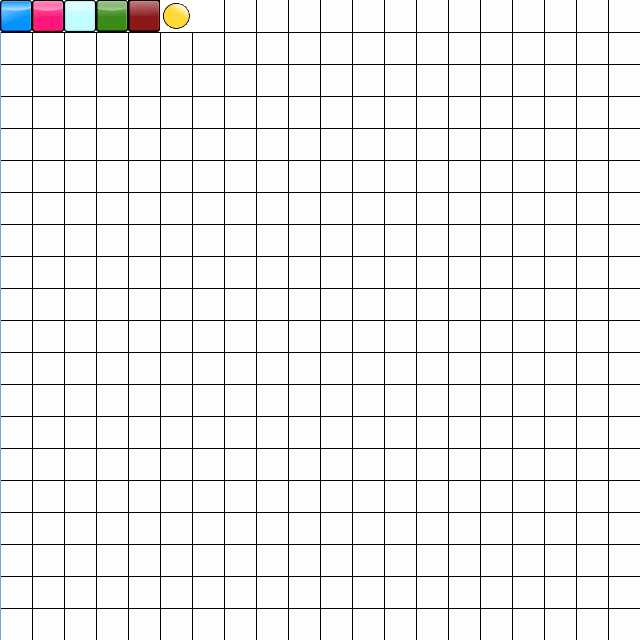
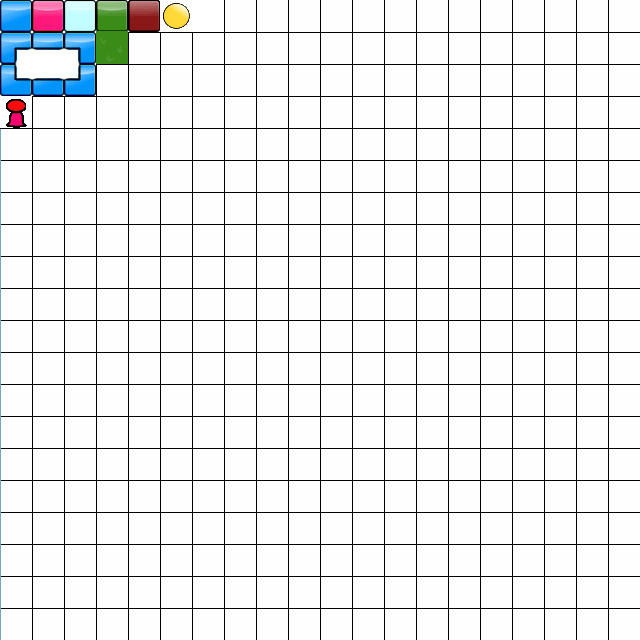
individual layer x and y

Changed region(s): [[0.0, 0.0312, 0.2188, 0.2188]]

diff --git a/_site/assets/src/TileMapViewer.js b/_site/assets/src/TileMapViewer.js
@@ -47,14 +47,17 @@ function TileMapViewer(config) {
       tileId;
     layerData = layer.data;
     layerCols = layer.width;
-    startCol = Math.floor(viewX / mapTileWidth);
-    drawMaxX = viewWidth + mapTileWidth;
-    drawMaxY = viewHeight + mapTileHeight;
+    startCol = Math.floor(layer.x / mapTileWidth);
+    //drawMaxX = viewWidth + mapTileWidth;
+    //drawMaxY = viewHeight + mapTileHeight;
+    drawMaxX = (layer.width + 1) * mapTileWidth;
+    drawMaxY = (layer.height + 1) * mapTileHeight;
     ctx.clearRect(0, 0, viewWidth, viewHeight);
     ctx.globalAlpha = layer.opacity;
-    ctx.translate(-viewX % mapTileWidth, -viewY % mapTileHeight);
+    ctx.translate(-layer.x % mapTileWidth, -layer.y % mapTileHeight);
     // display loop
-    tileRowStart = Math.floor(viewY / mapTileHeight) * layerCols;  // start of row
+    tileRowStart = layerCols * Math.floor(layer.y / mapTileHeight);  // start row
+    // console.log(layer.name, layer.x, layer.y, startCol, tileRowStart);
     drawY = 0;
     while (drawY <= drawMaxY) {
       col = startCol;
@@ -82,10 +85,22 @@ function TileMapViewer(config) {
     }
     ctx.setTransform(1, 0, 0, 1, 0, 0);
   }
+  this.getX = function () {
+    return viewX;
+  }
+  this.getY = function () {
+    return viewY;
+  }
   this.setXY = function (newX, newY) {
     // top left of view
-    viewX = Math.max(0, Math.min(newX, mapCols * mapTileWidth - viewWidth));
-    viewY = Math.max(0, Math.min(newY, mapRows * mapTileHeight - viewHeight));
+    let newLayerX = Math.max(0, Math.min(newX, mapCols * mapTileWidth - viewWidth));
+    let newLayerY = Math.max(0, Math.min(newY, mapRows * mapTileHeight - viewHeight));
+    viewX = newLayerX;
+    viewY = newLayerY;
+    layers[0].x = newLayerX;
+    layers[0].y = newLayerY;
+    layers[1].x = newLayerX;
+    layers[1].y = newLayerY;
   };
   this.changeXY = function (xChange, yChange) {
     this.setXY(viewX + xChange, viewY + yChange);

diff --git a/assets/src/TileMapViewer.js b/assets/src/TileMapViewer.js
@@ -47,14 +47,17 @@ function TileMapViewer(config) {
       tileId;
     layerData = layer.data;
     layerCols = layer.width;
-    startCol = Math.floor(viewX / mapTileWidth);
-    drawMaxX = viewWidth + mapTileWidth;
-    drawMaxY = viewHeight + mapTileHeight;
+    startCol = Math.floor(layer.x / mapTileWidth);
+    //drawMaxX = viewWidth + mapTileWidth;
+    //drawMaxY = viewHeight + mapTileHeight;
+    drawMaxX = (layer.width + 1) * mapTileWidth;
+    drawMaxY = (layer.height + 1) * mapTileHeight;
     ctx.clearRect(0, 0, viewWidth, viewHeight);
     ctx.globalAlpha = layer.opacity;
-    ctx.translate(-viewX % mapTileWidth, -viewY % mapTileHeight);
+    ctx.translate(-layer.x % mapTileWidth, -layer.y % mapTileHeight);
     // display loop
-    tileRowStart = Math.floor(viewY / mapTileHeight) * layerCols;  // start of row
+    tileRowStart = layerCols * Math.floor(layer.y / mapTileHeight);  // start row
+    // console.log(layer.name, layer.x, layer.y, startCol, tileRowStart);
     drawY = 0;
     while (drawY <= drawMaxY) {
       col = startCol;
@@ -82,10 +85,22 @@ function TileMapViewer(config) {
     }
     ctx.setTransform(1, 0, 0, 1, 0, 0);
   }
+  this.getX = function () {
+    return viewX;
+  }
+  this.getY = function () {
+    return viewY;
+  }
   this.setXY = function (newX, newY) {
     // top left of view
-    viewX = Math.max(0, Math.min(newX, mapCols * mapTileWidth - viewWidth));
-    viewY = Math.max(0, Math.min(newY, mapRows * mapTileHeight - viewHeight));
+    let newLayerX = Math.max(0, Math.min(newX, mapCols * mapTileWidth - viewWidth));
+    let newLayerY = Math.max(0, Math.min(newY, mapRows * mapTileHeight - viewHeight));
+    viewX = newLayerX;
+    viewY = newLayerY;
+    layers[0].x = newLayerX;
+    layers[0].y = newLayerY;
+    layers[1].x = newLayerX;
+    layers[1].y = newLayerY;
   };
   this.changeXY = function (xChange, yChange) {
     this.setXY(viewX + xChange, viewY + yChange);

diff --git a/_site/assets/pages/gameone/app.js b/_site/assets/pages/gameone/app.js
@@ -96,7 +96,7 @@ const app = new Vue({
         {
           map: this.tileMap,
           spriteSheet: this.$refs.tiles,
-          outputEl: [this.$refs.layer1],
+          outputEl: [this.$refs.background, this.$refs.foreground],
           view: { width: this.viewWidth, height: this.viewHeight }
         }
       );
@@ -130,8 +130,12 @@ const app = new Vue({
       window.requestAnimationFrame(this.boundUpdate);
     },
     move: function (moveX, moveY) {
+      let currentX = this.tileMapViewer.getX(),
+        currentY = this.tileMapViewer.getY();
       this.tileMapViewer.changeXY(moveX * this.moveRate, moveY * this.moveRate);
-      this.changed = true;
+      if (currentX !== this.tileMapViewer.getX() || currentY !== this.tileMapViewer.getY()) {
+        this.changed = true;
+      }
     }
   }
 });

diff --git a/assets/pages/gameone/app.js b/assets/pages/gameone/app.js
@@ -96,7 +96,7 @@ const app = new Vue({
         {
           map: this.tileMap,
           spriteSheet: this.$refs.tiles,
-          outputEl: [this.$refs.layer1],
+          outputEl: [this.$refs.background, this.$refs.foreground],
           view: { width: this.viewWidth, height: this.viewHeight }
         }
       );
@@ -130,8 +130,12 @@ const app = new Vue({
       window.requestAnimationFrame(this.boundUpdate);
     },
     move: function (moveX, moveY) {
+      let currentX = this.tileMapViewer.getX(),
+        currentY = this.tileMapViewer.getY();
       this.tileMapViewer.changeXY(moveX * this.moveRate, moveY * this.moveRate);
-      this.changed = true;
+      if (currentX !== this.tileMapViewer.getX() || currentY !== this.tileMapViewer.getY()) {
+        this.changed = true;
+      }
     }
   }
 });

diff --git a/_site/assets/pages/gameone.html b/_site/assets/pages/gameone.html
@@ -67,7 +67,11 @@
   <button @click="showMenuPanel = true">Menu</button>
   <div class="app--grid">
     <div class="app--grid-main">
-    <canvas ref="layer1" :width="viewWidth" :height="viewHeight"></canvas>
+      <div class="canvas-container">
+    <canvas ref="background" :width="viewWidth" :height="viewHeight"></canvas>
+    <canvas ref="player" :width="viewWidth" :height="viewHeight"></canvas>
+    <canvas ref="foreground" :width="viewWidth" :height="viewHeight"></canvas>
+      </div>
     </div>
     <div class="app--grid-controller">
       <div class="grid--div-controller">

diff --git a/_site/assets/pages/gameone/apptemplate.html b/_site/assets/pages/gameone/apptemplate.html
@@ -20,7 +20,11 @@
   <button @click="showMenuPanel = true">Menu</button>
   <div class="app--grid">
     <div class="app--grid-main">
-    <canvas ref="layer1" :width="viewWidth" :height="viewHeight"></canvas>
+      <div class="canvas-container">
+    <canvas ref="background" :width="viewWidth" :height="viewHeight"></canvas>
+    <canvas ref="player" :width="viewWidth" :height="viewHeight"></canvas>
+    <canvas ref="foreground" :width="viewWidth" :height="viewHeight"></canvas>
+      </div>
     </div>
     <div class="app--grid-controller">
       <div class="grid--div-controller">

diff --git a/assets/pages/gameone/apptemplate.html b/assets/pages/gameone/apptemplate.html
@@ -20,7 +20,11 @@
   <button @click="showMenuPanel = true">Menu</button>
   <div class="app--grid">
     <div class="app--grid-main">
-    <canvas ref="layer1" :width="viewWidth" :height="viewHeight"></canvas>
+      <div class="canvas-container">
+    <canvas ref="background" :width="viewWidth" :height="viewHeight"></canvas>
+    <canvas ref="player" :width="viewWidth" :height="viewHeight"></canvas>
+    <canvas ref="foreground" :width="viewWidth" :height="viewHeight"></canvas>
+      </div>
     </div>
     <div class="app--grid-controller">
       <div class="grid--div-controller">

diff --git a/_site/assets/pages/gameone/app.css b/_site/assets/pages/gameone/app.css
@@ -13,7 +13,7 @@ body {
 }
 .app--grid {
   display: grid;
-  grid-template-columns: auto;
+  grid-template-columns: 25% 50% 25%;
   grid-template-rows: auto;
   grid-template-areas: "left main right";
 }
@@ -36,8 +36,13 @@ body {
 .hidden, [v-cloak] {
   display: none;
 }
-canvas {
-  background: lightblue;
+.canvas-container {
+  display: grid;
+  background: #3a8b18;
+}
+.canvas-container canvas {
+  grid-column: 1;
+  grid-row: 1;
   border: 1px solid black;
 }
 .grid--div-controller {

diff --git a/assets/pages/gameone/app.css b/assets/pages/gameone/app.css
@@ -13,7 +13,7 @@ body {
 }
 .app--grid {
   display: grid;
-  grid-template-columns: auto;
+  grid-template-columns: 25% 50% 25%;
   grid-template-rows: auto;
   grid-template-areas: "left main right";
 }
@@ -36,8 +36,13 @@ body {
 .hidden, [v-cloak] {
   display: none;
 }
-canvas {
-  background: lightblue;
+.canvas-container {
+  display: grid;
+  background: #3a8b18;
+}
+.canvas-container canvas {
+  grid-column: 1;
+  grid-row: 1;
   border: 1px solid black;
 }
 .grid--div-controller {
